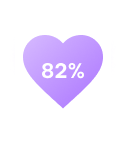
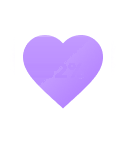
perbaikan bug

Changed region(s): [[0.3333, 0.4225, 0.6667, 0.5634], [0.1667, 0.2535, 0.3095, 0.507]]

diff --git a/lib/views/home/home_view.dart b/lib/views/home/home_view.dart
@@ -447,10 +447,39 @@ class _HomeViewState extends State<HomeView> {
                   const SizedBox(width: 16),
                   Expanded(
                     flex: 3,
-                    child: Image.asset(
-                      'assets/images/heart.png',
-                      height: 80,
-                      fit: BoxFit.cover,
+                    child: Stack(
+                      alignment: Alignment.center,
+                      children: [
+                        ShaderMask(
+                          shaderCallback: (bounds) => const LinearGradient(
+                            colors: [
+                              Color(0xFFE5B2FF),
+                              Color(0xFFB37BFF),
+                            ],
+                            begin: Alignment.topCenter,
+                            end: Alignment.bottomCenter,
+                          ).createShader(bounds),
+                          child: const Icon(
+                            Icons.favorite,
+                            size: 80,
+                            color: Colors.white,
+                          ),
+                        ),
+                        Padding(
+                          padding: const EdgeInsets.only(bottom: 4),
+                          child: Text(
+                            _latestMindCheck != null
+                                ? '${100 - _latestMindCheck!.burnoutLevelPct}%'
+                                : '--%',
+                            style: const TextStyle(
+                              color: Colors.white,
+                              fontSize: 14,
+                              fontWeight: FontWeight.bold,
+                              fontFamily: 'Poppins',
+                            ),
+                          ),
+                        ),
+                      ],
                     ),
                   ),
                 ],
@@ -688,7 +717,26 @@ class _HomeViewState extends State<HomeView> {
 
         if (state is ScheduleLoadSuccess) {
           final upcomingTasks = state.schedules.where((t) => !t.isCompleted).toList();
-          upcomingTasks.sort((a, b) => a.deadline.compareTo(b.deadline));
+          int getPriorityValue(String priority) {
+            switch (priority.toLowerCase()) {
+              case 'high':
+                return 3;
+              case 'medium':
+                return 2;
+              case 'low':
+                return 1;
+              default:
+                return 0;
+            }
+          }
+          upcomingTasks.sort((a, b) {
+            final aVal = getPriorityValue(a.priority);
+            final bVal = getPriorityValue(b.priority);
+            if (aVal != bVal) {
+              return bVal.compareTo(aVal); // High (3) first, then Medium (2), then Low (1)
+            }
+            return a.deadline.compareTo(b.deadline);
+          });
 
           if (upcomingTasks.isEmpty) {
             return Center(

diff --git a/lib/views/auth/register_view.dart b/lib/views/auth/register_view.dart
@@ -118,6 +118,13 @@ class _RegisterViewState extends State<RegisterView> {
                               width: 1.5,
                             ),
                           ),
+                          errorMaxLines: 3,
+                          errorStyle: const TextStyle(
+                            fontFamily: 'Poppins',
+                            color: Colors.redAccent,
+                            fontSize: 12.0,
+                            fontWeight: FontWeight.w600,
+                          ),
                         ),
                         validator: (value) {
                           if (value == null || value.trim().isEmpty) {
@@ -168,6 +175,13 @@ class _RegisterViewState extends State<RegisterView> {
                               color: AppColors.primary,
                               width: 1.5,
                             ),
+                          ),
+                          errorMaxLines: 3,
+                          errorStyle: const TextStyle(
+                            fontFamily: 'Poppins',
+                            color: Colors.redAccent,
+                            fontSize: 12.0,
+                            fontWeight: FontWeight.w600,
                           ),
                         ),
                         validator: (value) {
@@ -222,6 +236,13 @@ class _RegisterViewState extends State<RegisterView> {
                               color: AppColors.primary,
                               width: 1.5,
                             ),
+                          ),
+                          errorMaxLines: 3,
+                          errorStyle: const TextStyle(
+                            fontFamily: 'Poppins',
+                            color: Colors.redAccent,
+                            fontSize: 12.0,
+                            fontWeight: FontWeight.w600,
                           ),
                         ),
                         validator: (value) {
@@ -287,6 +308,13 @@ class _RegisterViewState extends State<RegisterView> {
                               color: AppColors.primary,
                               width: 1.5,
                             ),
+                          ),
+                          errorMaxLines: 3,
+                          errorStyle: const TextStyle(
+                            fontFamily: 'Poppins',
+                            color: Colors.redAccent,
+                            fontSize: 12.0,
+                            fontWeight: FontWeight.w600,
                           ),
                         ),
                         validator: (value) {

diff --git a/lib/views/schedule/schedule_view.dart b/lib/views/schedule/schedule_view.dart
@@ -8,6 +8,7 @@ import '../../services/schedule_bloc.dart';
 import '../../services/schedule_event.dart';
 import '../../services/schedule_state.dart';
 import '../../components/custom_snackbar.dart';
+import '../../models/schedule_model.dart';
 
 class ScheduleView extends StatefulWidget {
   const ScheduleView({super.key});
@@ -574,12 +575,34 @@ class _ScheduleViewState extends State<ScheduleView> {
                               ),
                             );
                           }
+                          final sortedSchedules = List<ScheduleModel>.from(state.schedules);
+                          int getPriorityValue(String priority) {
+                            switch (priority.toLowerCase()) {
+                              case 'high':
+                                return 3;
+                              case 'medium':
+                                return 2;
+                              case 'low':
+                                return 1;
+                              default:
+                                return 0;
+                            }
+                          }
+                          sortedSchedules.sort((a, b) {
+                            final aVal = getPriorityValue(a.priority);
+                            final bVal = getPriorityValue(b.priority);
+                            if (aVal != bVal) {
+                              return bVal.compareTo(aVal); // High (3) first, then Medium (2), then Low (1)
+                            }
+                            return a.deadline.compareTo(b.deadline);
+                          });
+
                           return ListView.builder(
                             shrinkWrap: true,
                             physics: const NeverScrollableScrollPhysics(),
-                            itemCount: state.schedules.length,
+                            itemCount: sortedSchedules.length,
                             itemBuilder: (context, index) {
-                              final schedule = state.schedules[index];
+                              final schedule = sortedSchedules[index];
                               return GestureDetector(
                                 onTap: () {
                                   context.push(AppRoutes.editSchedule, extra: schedule);

diff --git a/lib/views/auth/auth_view.dart b/lib/views/auth/auth_view.dart
@@ -122,6 +122,13 @@ class _AuthViewState extends State<AuthView> {
                               width: 1.5,
                             ),
                           ),
+                          errorMaxLines: 3,
+                          errorStyle: const TextStyle(
+                            fontFamily: 'Poppins',
+                            color: Colors.redAccent,
+                            fontSize: 12.0,
+                            fontWeight: FontWeight.w600,
+                          ),
                         ),
                         validator: (value) {
                           if (value == null || value.trim().isEmpty) {
@@ -199,6 +206,13 @@ class _AuthViewState extends State<AuthView> {
                               color: AppColors.primary,
                               width: 1.5,
                             ),
+                          ),
+                          errorMaxLines: 3,
+                          errorStyle: const TextStyle(
+                            fontFamily: 'Poppins',
+                            color: Colors.redAccent,
+                            fontSize: 12.0,
+                            fontWeight: FontWeight.w600,
                           ),
                         ),
                         validator: (value) {
